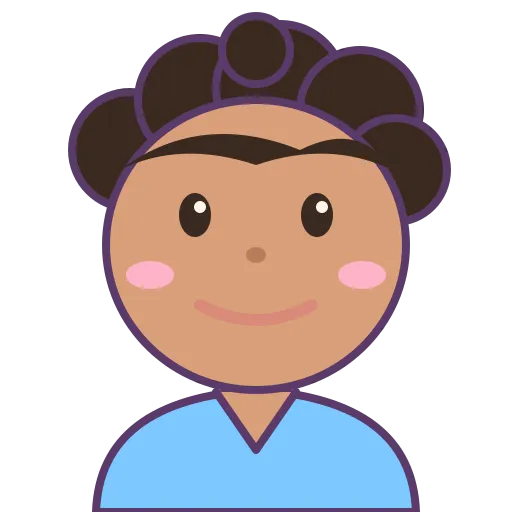
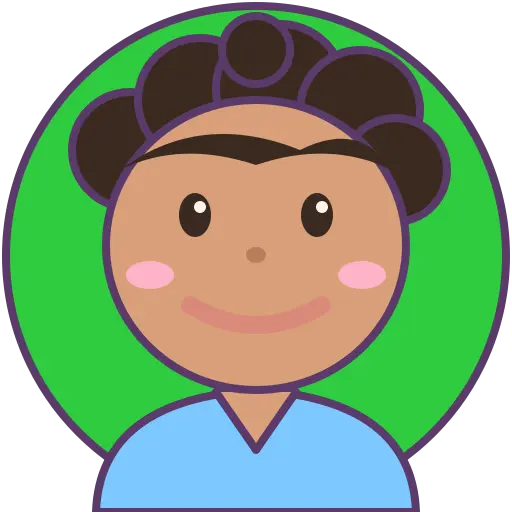
fix: Use distinct backdrop colors in mouth placeholders and a cream game background (TASK-002)

Changed region(s): [[0.0, 0.0, 1.0, 0.9062]]

diff --git a/lib/game/caua_candies_game.dart b/lib/game/caua_candies_game.dart
@@ -1,6 +1,7 @@
 import 'package:flame/components.dart';
 import 'package:flame/events.dart';
 import 'package:flame/game.dart';
+import 'package:flutter/painting.dart' show Color;
 
 import 'components/caua_player_component.dart';
 import 'managers/mouth_controller.dart';
@@ -30,6 +31,10 @@ class CauaCandiesGame extends FlameGame with TapCallbacks {
 
   /// Mouth state owner, exposed for later tasks (read [MouthController.state]).
   MouthController get mouthController => _mouthController;
+
+  /// Candy Pastel `bg-cream` (#FFF5E6), the base game background.
+  @override
+  Color backgroundColor() => const Color(0xFFFFF5E6);
 
   @override
   Future<void> onLoad() async {

diff --git a/assets/images/README.md b/assets/images/README.md
@@ -1,3 +1,3 @@
 All art in the images directory is made by Erick Zanardo (https://cherrybit.studio/) and are
 released under CC0 (Public Domain).
-Placeholder art: caua_mouth_closed.webp and caua_mouth_open.webp are temporary generated placeholders (not by the author above); to be replaced by final Caua art.
+Placeholder art: caua_mouth_closed.webp and caua_mouth_open.webp are temporary generated placeholders (not by the author above); to be replaced by final Caua art. Closed = green backdrop, open = red/orange backdrop.
